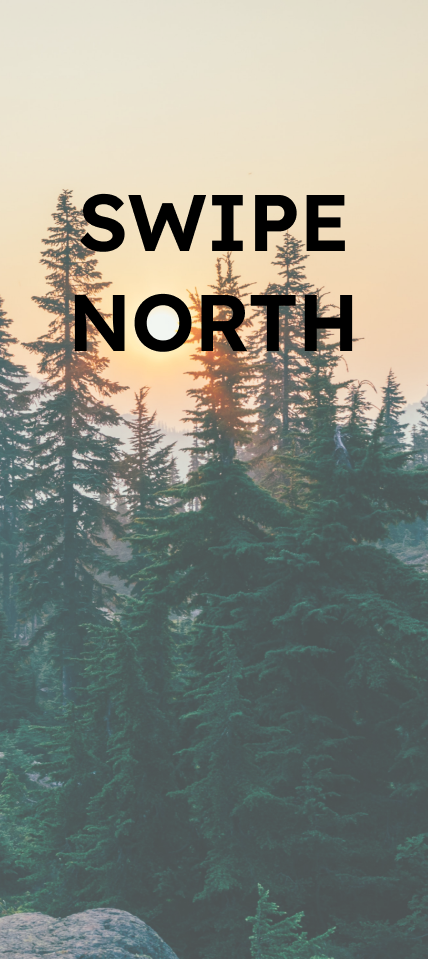
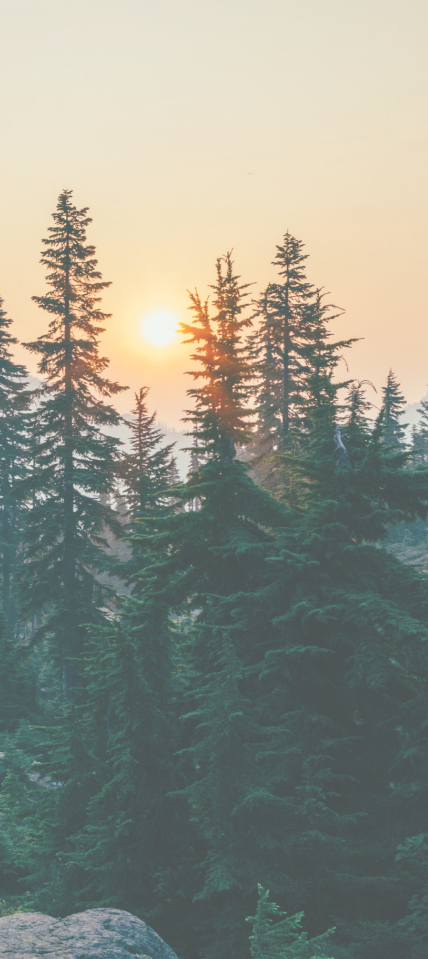
add remove saved job function

Changed region(s): [[0.1822, 0.1814, 0.8201, 0.2722], [0.1519, 0.3024, 0.8505, 0.3931]]

diff --git a/app/savedjobs/page.js b/app/savedjobs/page.js
@@ -2,21 +2,6 @@
 import React, { useState, useEffect } from 'react';
 import styles from '../../styles/savedjobs.module.scss'
 
-function ClearLocalStorage() {
-  const [cleared, setCleared] = useState(false);
-
-  const handleClearClick = () => {
-    localStorage.clear();
-    setCleared(true);
-  };
-
-  return (
-    <div>
-      <button className={styles.clearBtn} onClick={handleClearClick}>Clear List</button>
-      {cleared && <p className={styles.paragraph} >List has been cleared, reload page.</p>}
-    </div>
-  );
-}
 function SavedJobs() {
   const [savedJobs, setSavedJobs] = useState([]);
 
@@ -26,6 +11,11 @@ function SavedJobs() {
       setSavedJobs(savedJobsData);
     }
   }, []);
+
+  const handleClickClose = (id) => {
+    localStorage.removeItem(id);
+    setSavedJobs(prevJobs => prevJobs.filter(job => job.id !== id));
+  };
 
   return (
     <>
@@ -37,15 +27,17 @@ function SavedJobs() {
             <img className={styles.bigImg} src={job.picture} /*alt={imgAlt}*/ height="200px" width="200px"/>
           </div>
           <div className={styles.infoContainer}>
-            <div>
-              <h2>{job.title}</h2>
-              <h4>{job.company}</h4>
+            <div className={styles.innerText}>
+              <div>
+                <h2 className={styles.jobTitle}>{job.title}</h2>
+                <h4 className={styles.company}>{job.company}</h4>
+              </div>
+              <div onClick={() => handleClickClose(job.id)} className={styles.close}>⊗</div>
             </div>
             <h4 className={styles.icons}>{`${job.icon} ${job.percentajeJob}%`}</h4>
           </div>
         </div>
       ))}
-      <ClearLocalStorage />
     </div>
     
     </>

diff --git a/styles/savedjobs.module.scss b/styles/savedjobs.module.scss
@@ -1,7 +1,7 @@
 @import 'variables';
 
 .savedJobsContainer {
-    margin-top: 5vh;
+    margin-top: 3vh;
 }
 
 .savedJobsList {
@@ -13,12 +13,13 @@
 }
 
 .bigImg {
-    height: 150px;
-    width: 150px;
+    border-radius: 5px;
+    height: 120px;
+    width: 120px;
 }
 
 .clearBtn {
-    background: linear-gradient(45deg, $dark-green, $light-green);
+    background-color: $red-color;
     border: none;
     color: #fff;
     font-size: 1.6rem;
@@ -33,11 +34,32 @@
     display: flex;
     flex-direction: column;
     justify-content: space-between;
+    width: 100%;
+}
+
+.innerText {
+    display: flex;
+    justify-content: space-between;
 }
 
 .title {
     text-align: center;
     font-size: 36px;
+}
+
+.jobTitle {
+    font-size: 18px;
+    margin: 0;
+}
+
+.company {
+    font-size: 14px;
+    margin: 4px 0;
+}
+
+.close {
+    font-size: 16px;
+    font-weight: 600;
 }
 
 .paragraph {
@@ -47,3 +69,4 @@
     padding: 8px;
     text-align: center;
 }
+

diff --git a/app/page.js b/app/page.js
@@ -2,9 +2,10 @@
 import styles from "../styles/page.module.scss";
 import { SlArrowUp } from "react-icons/sl";
 import Link from 'next/link';
+import backgroundImg from '../public/backgroundfront.png'
 
 export default function Home() {
-    return <main className={styles.main}>
+    return <main className={styles.main} style={{ backgroundImage: `url(${backgroundImg.src})`, backgroundSize: 'cover', backgroundRepeat: 'no-repeat', backgroundAttachment: 'fixed' }}>
               <div className={styles.animationContainer}>
                  <Link href="/swiper" >
                   <p className={styles.small}><SlArrowUp/></p>
